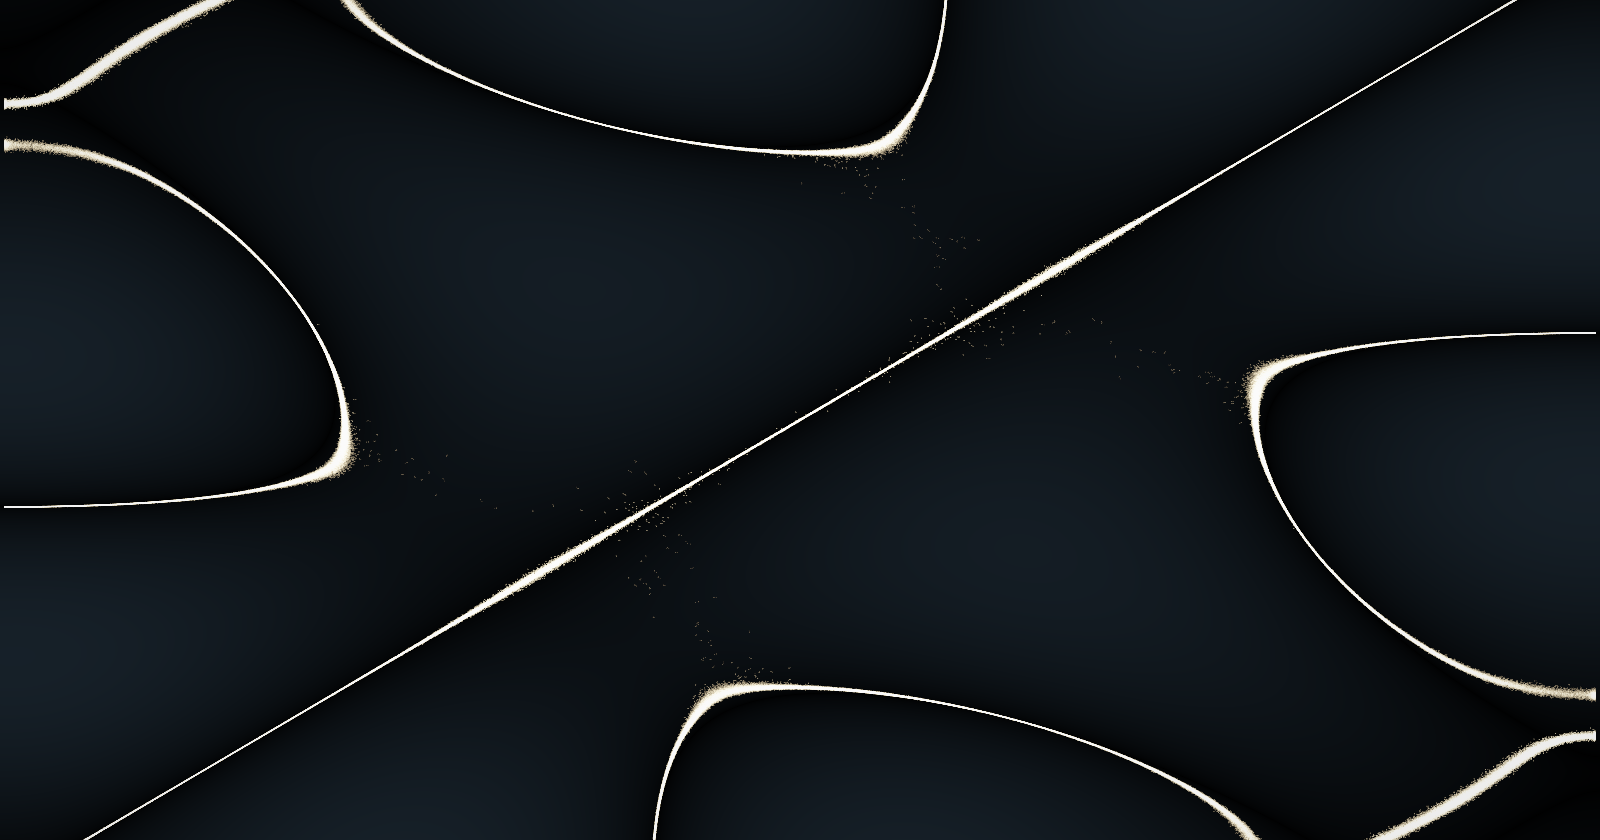
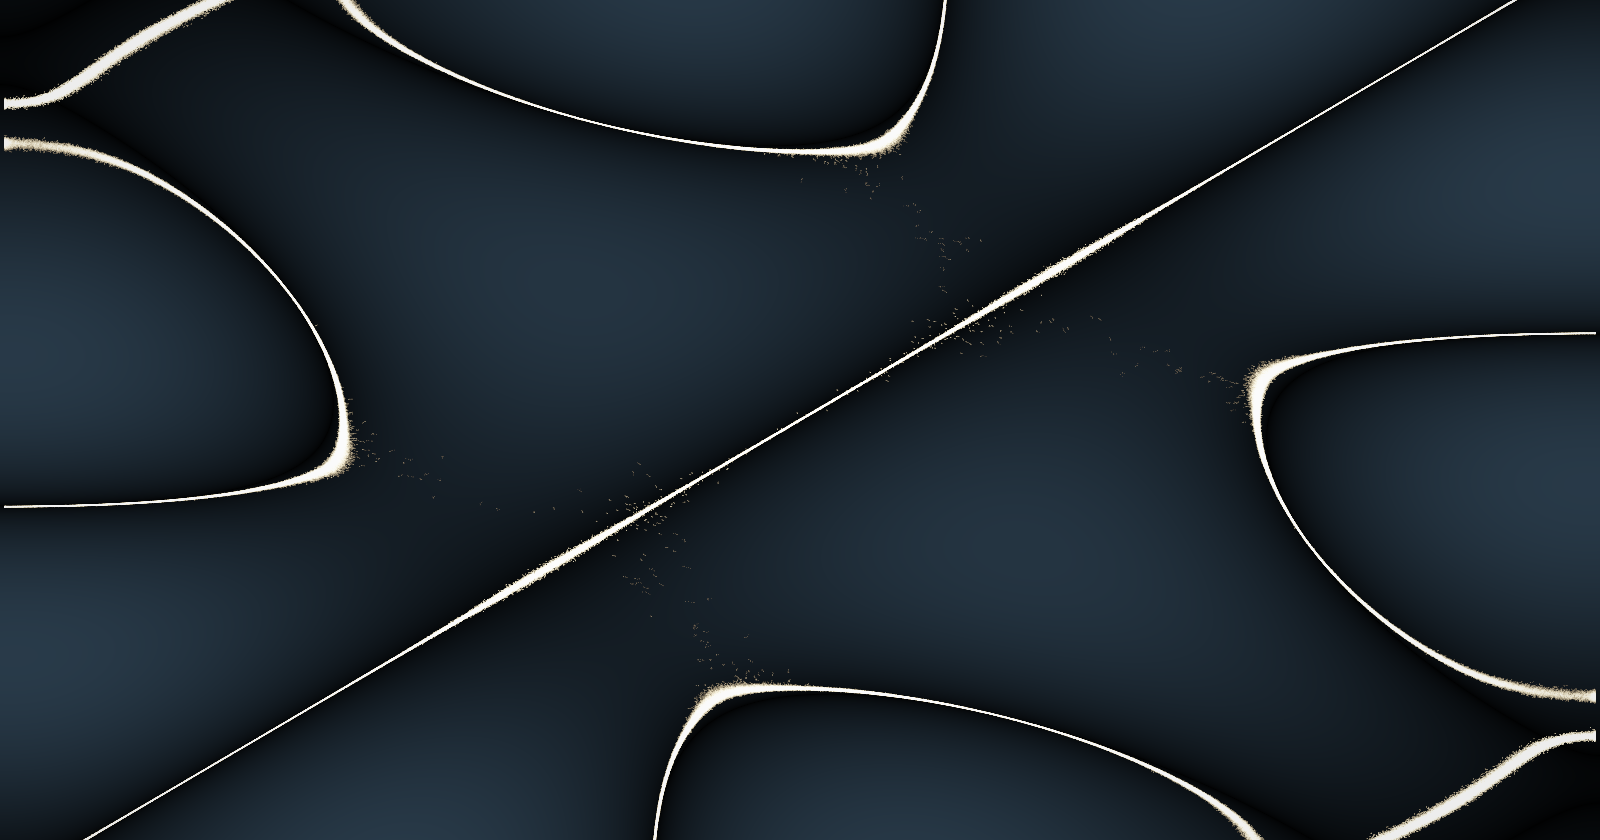
008: cut the antinode strobe
The shimmer pulsed at ~6 Hz to suggest vibration; on screen that is
just a strobe. Vibration too fast to see now renders as steady glow —
place, not flash.

diff --git a/builds/008-nodal/index.html b/builds/008-nodal/index.html
@@ -176,10 +176,10 @@ void main() {
   vec2 uv = gl_FragCoord.xy / uRes;
   vec3 c = texture(uTrail, uv).rgb;
 
-  // antinode shimmer — the plate's motion, breathing at audio-ish rate
+  // antinode shimmer — steady, not strobed: the eye should read the
+  // plate's motion as a place, not a flash
   float u = plateU(uv);
-  float ring = abs(u) * (0.55 + 0.45 * sin(uTime * 37.0));
-  c += vec3(0.020, 0.045, 0.075) * ring * 0.55;
+  c += vec3(0.020, 0.045, 0.075) * abs(u) * 0.30;
 
   c = 1.0 - exp(-c * 2.1);
   float v = length(uv - 0.5);

diff --git a/builds/008-nodal/NOTES.md b/builds/008-nodal/NOTES.md
@@ -64,6 +64,10 @@ plate rattles the sand around it.
 - `getUserMedia` needs a user gesture, so the mic is claimed on first
   click — and the piece must be complete without it, both for the
   headless preview and for anyone who denies the prompt.
+- first cut pulsed the antinode shimmer at ~6 Hz to suggest vibration.
+  On screen that is just a strobe — obnoxious, and gone. Rule learned:
+  vibration too fast to see should render as *place* (steady glow),
+  not as flashing.
 
 ## next
 